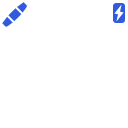
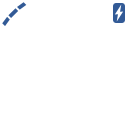
Updated HUD images with labels

Changed region(s): [[0.875, 0.0, 1.0, 0.1875], [0.0, 0.0, 0.2188, 0.2188]]

diff --git a/source/hudInstructions.js b/source/hudInstructions.js
@@ -75,21 +75,21 @@ function createCameraSelector() {
     firstPersonBtn.icon.src = "assets/hud/camera_firstperson.png";
     firstPersonBtn.mode = "firstPerson";
     firstPersonBtn.onMouseDown = selectCameraMode;
-    hud.add( firstPersonBtn, "right", "top", { "x": -62, "y": 32 } );
+    hud.add( firstPersonBtn, "right", "top", { "x": -53, "y": 32 } );
 
     var thirdPersonBtn = new HUD.Element( "camera_thirdPerson", drawIcon, 22, 22 );
     thirdPersonBtn.icon = new Image();
     thirdPersonBtn.icon.src = "assets/hud/camera_thirdperson.png";
     thirdPersonBtn.mode = "thirdPerson";
     thirdPersonBtn.onMouseDown = selectCameraMode;
-    hud.add( thirdPersonBtn, "right", "top", { "x": -35, "y": 52 } );
+    hud.add( thirdPersonBtn, "right", "top", { "x": -34, "y": 54 } );
 
     var topDownBtn = new HUD.Element( "camera_topDown", drawIcon, 22, 22 );
     topDownBtn.icon = new Image();
     topDownBtn.icon.src = "assets/hud/camera_topdown.png";
     topDownBtn.mode = "topDown";
     topDownBtn.onMouseDown = selectCameraMode;
-    hud.add( topDownBtn, "right", "top", { "x": -38, "y": 84 } );
+    hud.add( topDownBtn, "right", "top", { "x": -35, "y": 80 } );
 
 }
 
@@ -247,9 +247,14 @@ function drawBatteryMeter( context, position ) {
     var end = start - ( battery / maxBattery ) * Math.PI * 2;
 
     context.beginPath();
+    context.arc( center.x, center.y, arcWidth, 0, 2 * Math.PI, false );
+    context.fillStyle = "rgba(50,90,150,0.5)";
+    context.fill();
+
+    context.beginPath();
     context.arc( center.x, center.y, arcWidth / 2, start, end, true );
     context.lineWidth = arcWidth - 1;
-    context.strokeStyle = "rgb(70,120,255)";
+    context.strokeStyle = "rgb(50,90,220)";
     context.stroke();
 
     if ( this.portrait ) {
@@ -364,7 +369,7 @@ function drawInventory( context, position ) {
 
         } else {
 
-            context.fillStyle = "rgb(50,90,220)";
+            context.fillStyle = "rgb(50,90,150)";
             context.fillRect( posX, posY + 5, iconSize, iconSize - 10 );
 
         }

diff --git a/source/blocklyUI.js b/source/blocklyUI.js
@@ -49,7 +49,7 @@ function setUpBlocklyPeripherals() {
 function updateBlocklyRamBar() {
     if ( currentBlocklyNodeID ) {
         currentRam.style.width = ramBar.clientWidth * ( blocklyNodes[ currentBlocklyNodeID ].ram / blocklyNodes[ currentBlocklyNodeID ].ramMax ) + "px";
-        ramBarCount.innerHTML = blocklyNodes[ currentBlocklyNodeID ].ram;
+        ramBarCount.innerHTML = "RAM: " + blocklyNodes[ currentBlocklyNodeID ].ram;
     }
 }
 

diff --git a/index.vwf.css b/index.vwf.css
@@ -121,7 +121,7 @@ body {
 }
 
 #ramBarCount {
-    width: 32px;
+    width: 100%;
     height: 32px;
     color: #fff;
     font-size: 24px;
@@ -131,6 +131,7 @@ body {
     top: -32px;
     margin-left: auto;
     margin-right: auto;
+    text-align: center;
 }
 
 #blocklyCloseBtn {
